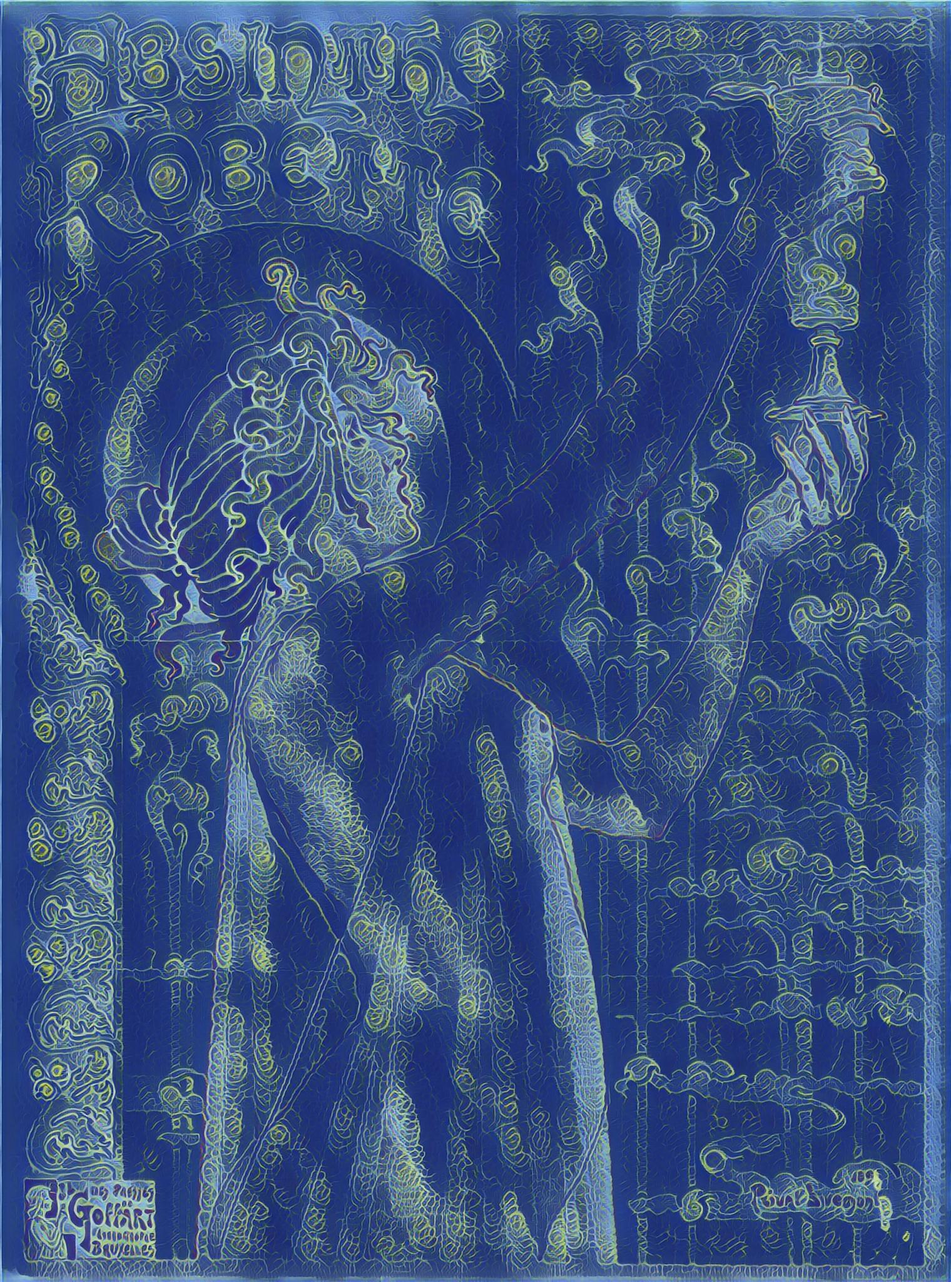
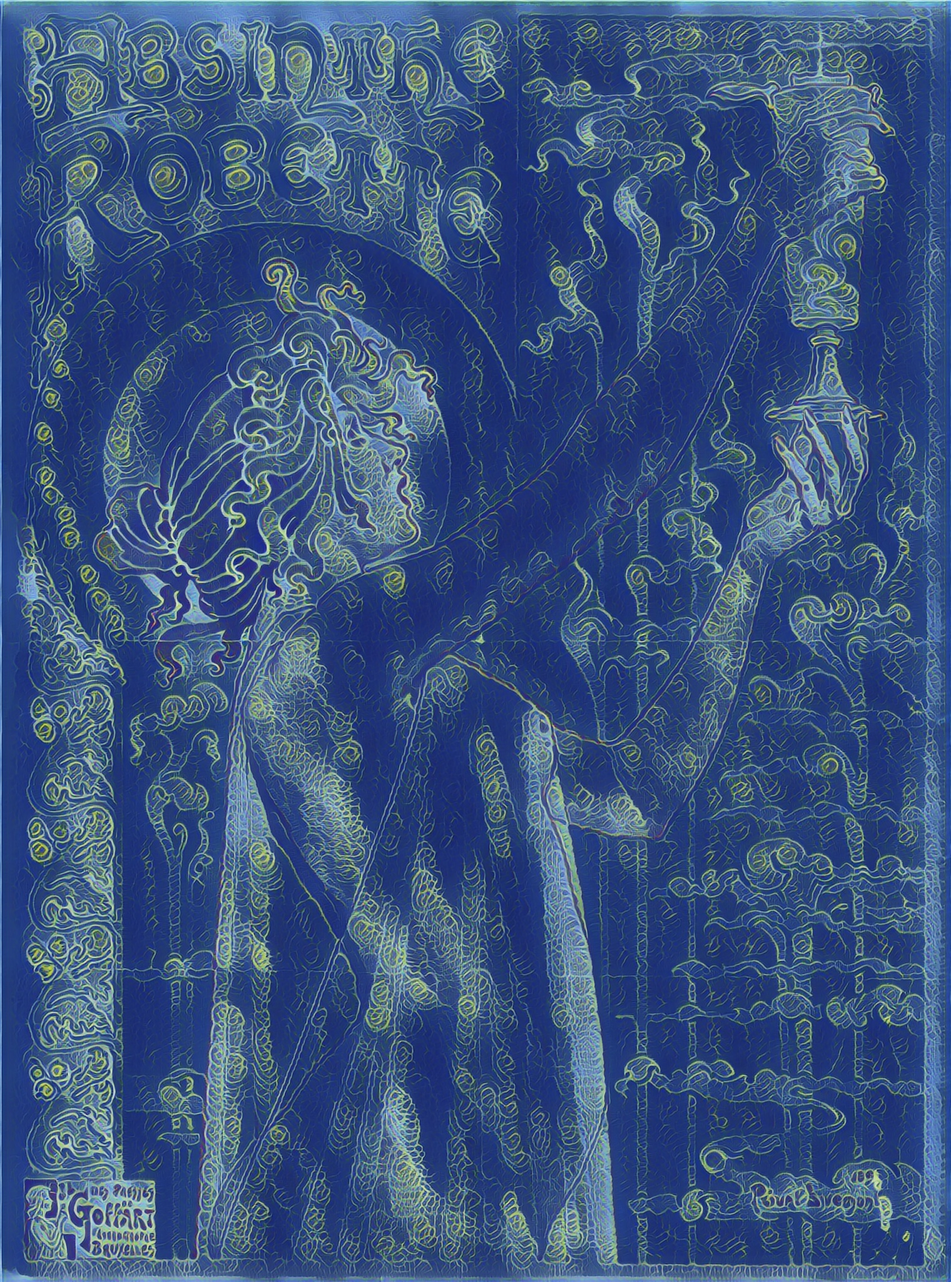
Rewrote script with fewer module dependencies

diff --git a/unst.py b/unst.py
@@ -1,35 +1,43 @@
-import matplotlib.pylab as plt
-import numpy as np
 import tensorflow as tf
 import tensorflow_hub as hub
 
-# Load content and style images.
-content_image = plt.imread("data/content.jpeg")
-style_image = plt.imread("data/style.jpeg")
 
-# Convert to float32 np array, add batch dimension, normalize to range [0, 1].
-content_image = content_image.astype(np.float32)[np.newaxis, ...] / 255.0
-style_image = style_image.astype(np.float32)[np.newaxis, ...] / 255.0
+# Preprocess image data.
+def preprocess(image):
+    """Decode JPEG, cast to float32, normalize to [0, 1], add batch dim."""
+    image = tf.io.decode_jpeg(image, channels=3)
+    image = tf.cast(image, tf.float32) / 255.0
+    image = tf.expand_dims(image, axis=0)
+    return image
 
-# Resizing: It is recommended that the style image is 256 pixels,
-# this size was used when training the style transfer network.
-style_image = tf.image.resize(
-    style_image, (256, 256), preserve_aspect_ratio=True, antialias=True
-)
+
+# Resize image data.
+def resize(image):
+    """Resize image to 256x256."""
+    image = tf.image.resize(
+        image, (256, 256), preserve_aspect_ratio=True, antialias=True
+    )
+    return image
+
+
+# Postprocess image data.
+def postprocess(image):
+    """Remove batch dim., convert to RGB, cast to uint8, encode JPEG data."""
+    image = tf.squeeze(image, axis=None) * 255.0
+    image = tf.cast(image, tf.uint8)
+    image = tf.io.encode_jpeg(image, quality=95)
+    return image
+
+
+# Load raw JPEG data.
+content = tf.io.read_file("data/content.jpeg")
+style = tf.io.read_file("data/style.jpeg")
 
 # Load image stylization module.
 hub_module = hub.load(
     "https://tfhub.dev/google/magenta/arbitrary-image-stylization-v1-256/2"
 )
 
-# Stylize image:
-# content_image, style_image, and stylized_image are expected to be 4-D Tensors
-# with shapes [batch_size, image_height, image_width, 3].
-outputs = hub_module(tf.constant(content_image), tf.constant(style_image))
-stylized_image = outputs[0]
-
-# Convert stylized_iamge tensor to numpy array.
-stylized_image_array = stylized_image[0].numpy()
-
-# Save numpy array as image.
-plt.imsave("data/stylized.jpeg", stylized_image_array)
+# Generate and save stylized image.
+outputs = hub_module(preprocess(content), resize(preprocess(style)))
+tf.io.write_file("data/stylized.jpeg", postprocess(outputs))
